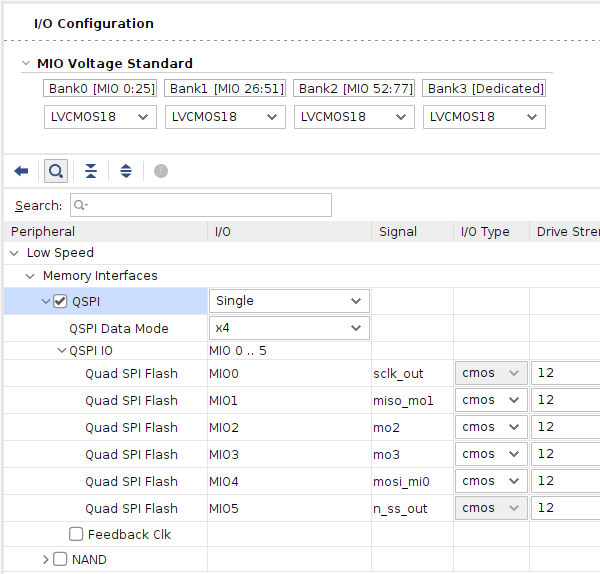
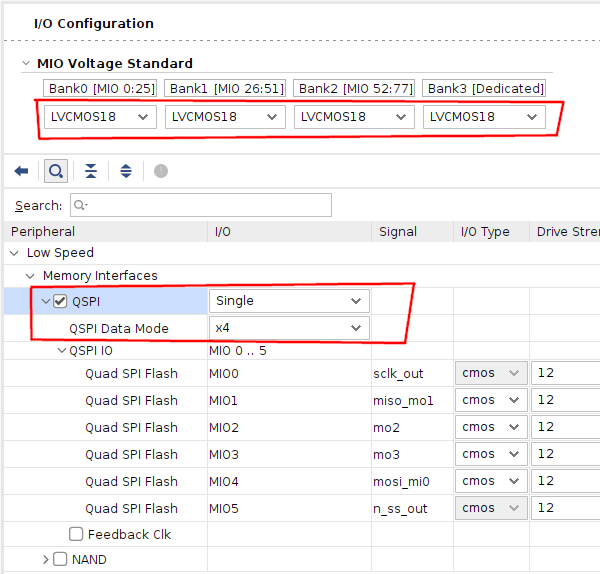
Updated U25 Notes

Changed region(s): [[0.06, 0.1481, 0.96, 0.2666], [0.03, 0.4739, 0.69, 0.622]]

diff --git a/Alveo_U25/debug_log.md b/Alveo_U25/debug_log.md
@@ -4,6 +4,10 @@
 
 See also the [Vitis Debug Log](debug_log_vitis.md).
 
+For testing, I have the U25 in a [PCIe x16 to x1 Riser Extender](https://www.google.com/search?q=PCIe+x16+to+x1+Riser+Extender) and use some [PCIe 8-Pin Power Extension Cables](https://www.google.com/search?q=pcie+8+pin+extension+cable) to work at a distance from the host computer. I am using a [WaveShare Platform Cable USB Clone](https://www.waveshare.com/platform-cable-usb.htm) for JTAG and a [74AVC4T774PW](https://www.trustedparts.com/en/search/74AVC4T774PW) Voltage Translator on a [TSSOP-16](https://www.ti.com/lit/pdf/mpds361a)-to-DIP adapter ([1](https://www.trustedparts.com/en/search/PA0193), [2](https://www.trustedparts.com/en/search/LCQT-TSSOP16)) to translate the U25's 1.8V UART to 3.3V for the [MCP2221A](https://www.trustedparts.com/en/part/adafruit/4471), which also handles the U25's 3.3V I2C communication.
+
+![U25 Test Setup](img/U25_Test_Setup.jpg)
+
 
 
 
@@ -133,27 +137,17 @@ B13 seems to connect to the `MGTAVCC` voltage rail which is used by the FPGA PL 
 
 
 
-## Attempt to Trace B9 Debug Connector Signal
-
-
-B9 measures 3.3V and has 1k-ohm series resistance to the 3.3V rail. It has 100-ohm series resistance to VccB of the [SN74AUP1T34](https://www.ti.com/lit/ds/symlink/sn74aup1t34.pdf) labeled [`U2`](https://www.ti.com/packaging/en/docs/partlookup.tsp?partmarking=U2), which has a signal that goes to a [NC7NZ34](https://www.onsemi.com/download/data-sheet/pdf/nc7nz34-d.pdf) triple signal buffer IC.
-
-![](img/U25_Debug_B9_Tracing_Attempt.jpg)
-
-
-
-
-## Attempt to Trace A8 A9 Debug Connector Signals
+## Tracing A8 A9 Debug Connector UART Signals
 
 The pins measure 1.8V. The [U25N Notes](https://xilinx.github.io/U25N-SmartNIC-Solution/docs/build/html/docs/ug1534-shellprogramming.html) mention a UART and [astronomy8 on the ServeTheHome Forum found A8 and A9 are being used](https://forums.servethehome.com/index.php?threads/identifying-some-curious-xilinx-solarflare-cards.35111/post-369295).
 
 After [enabling JTAG](https://github.com/mwrnd/notes/tree/main/Alveo_U25#connect-jtag-adapter-and-allow-vivado-to-update-platform-cable-usb-ii-firmware) I was able to use UrJTAG to test pins A8 and A9. A8 connects to `PS_MIO22` (`AH32`) which is **RXD** and A9 connects to `PS_MIO23` (`AG35`) which is **TXD**.
 
-I used a [SN74AVC4T774](https://www.ti.com/product/SN74AVC4T774) Voltage Translator on a [TSSOP](https://www.ti.com/lit/pdf/mpds361a)-to-DIP adapter ([1](https://www.trustedparts.com/en/search/PA0193), [2](https://www.trustedparts.com/en/search/LCQT-TSSOP16)).
+I used a [74AVC4T774PW](https://www.ti.com/product/SN74AVC4T774) Voltage Translator on a [TSSOP-16](https://www.ti.com/lit/pdf/mpds361a)-to-DIP adapter ([1](https://www.trustedparts.com/en/search/PA0193), [2](https://www.trustedparts.com/en/search/LCQT-TSSOP16)).
 
 ![U25 UART Voltage Translator](img/U25_UART-Level-Shifter_I2C_MCP2221.jpg)
 
-[SN74AVC4T774](https://www.ti.com/lit/ds/symlink/sn74avc4t774.pdf) connections:
+[74AVC4T774PW](https://www.ti.com/lit/ds/symlink/sn74avc4t774.pdf) connections:
 
 ![U25 UART Voltage Translator](img/U25_UART_MCP2221_Voltage_Translator.png)
 
@@ -328,6 +322,10 @@ In Vivado, the following constraints can be used when setting up PCIe:
 
 ![U25 PCIe x1 Constraints](img/U25_PCIe_x1_Pin_Constraints.png)
 
+The closest `PCIE4` block to Banks 224 and 225 is X1Y0.
+
+![Quads 224 225 Closest to X1Y0 PCIE4](img/U25_Quads_224_225_Closest_to_X1Y0_PCIE4.png)
+
 
 
 
@@ -475,7 +473,7 @@ I chose `mt25qu01g-qspi-x4-single` as the memory device.
 
 ![Select mt25qu01g-qspi-x4-single](img/Select_mt25qu01g-qspi-x4-single.png)
 
-I then programmed the Configuration Memory Device using an FSBL (First-Stage Boot Loader) from a recent project and `partition.bin` generated by an install of the [U25 FPGA Utility](https://support.lenovo.com/us/en/downloads/ds547996-xilinx-u25-fpga-utility-for-unknown-os)([2.8.372](https://download.lenovo.com/servers/mig/2020/12/23/43128/xlnx-lnvgy_utl_nic_u25-2.8.372_linux_x86-64.tgz)).
+I then programmed the Configuration Memory Device using an FSBL (First-Stage Boot Loader) from a recent project and `partition.bin` generated by an install of the [U25 FPGA Utility](https://support.lenovo.com/us/en/downloads/ds547996-xilinx-u25-fpga-utility-for-unknown-os)([2.8.372](https://download.lenovo.com/servers/mig/2020/12/23/43128/xlnx-lnvgy_utl_nic_u25-2.8.372_linux_x86-64.tgz)). Note that the U25 is a [Two Stage Platform](https://xilinx.github.io/XRT/master/html/platforms_partitions.html#two-stage-platforms) and requires `BOOT.bin` from the [Official U25 Member Page](https://www.xilinx.com/member/u25.html).
 
 ![Program Configuration Memory Device](img/Program_Configuration_Memory_Device.png)
 
@@ -523,6 +521,21 @@ The Zynq JTAG pins have two buffer ICs connected to them. There are two possible
 [U25 X2 NIC Firmware](https://support.lenovo.com/us/en/downloads/ds548057-xilinx-u25-x2-nic-firmware-for-unknown-os) ([8.1.3.1011-1](https://download.lenovo.com/servers/mig/2021/01/06/43174/xlnx-lnvgy_fw_nic_u25-8.1.3.1011-1_linux_x86-64.tgz))
 
 [U25 FPGA Utility](https://support.lenovo.com/us/en/downloads/ds547996-xilinx-u25-fpga-utility-for-unknown-os) ([2.8.372](https://download.lenovo.com/servers/mig/2020/12/23/43128/xlnx-lnvgy_utl_nic_u25-2.8.372_linux_x86-64.tgz))
+
+
+
+
+## Setting Boot Mode
+
+[Set JTAG Boot](https://xilinx.github.io/kria-apps-docs/creating_applications/2022.1/build/html/docs/bootmodes.html#setting-bootmodes) regardless of the `PS_MODE` pins. [ug1087 describes `BOOT_MODE_USER`](https://docs.xilinx.com/r/en-US/ug1087-zynq-ultrascale-registers/BOOT_MODE_USER-CRL_APB-Register) which is defined in [`/tools/Xilinx/Vivado/2021.2/data/embeddedsw/lib/sw_apps/zynqmp_pmufw/src/crl_apb.h`](https://github.com/Xilinx/embeddedsw/blob/836d748f91eda280bac23d0200df8a3bef61c0c3/lib/sw_apps/zynqmp_pmufw/src/crl_apb.h#L1988).
+
+```
+targets -set -nocase -filter {name =~ "*PSU*"}
+stop
+mwr 0xFFCA0010 0x0
+mwr 0xFF5E0200 0x0100
+rst -system
+```
 
 
 

diff --git a/Alveo_U25/README.md b/Alveo_U25/README.md
@@ -66,7 +66,7 @@ exit
 
 #### Connect JTAG Adapter and Allow Vivado to Update Platform Cable USB II Firmware
 
-Connect your JTAG Adapter to the Alveo U25.
+Connect your JTAG Adapter to the Alveo U25. The Alveo needs to be powered over its PCIe connection.
 
 ![JTAG Connected](img/AlveoU25_JTAG_Connected.jpg)
 
@@ -221,7 +221,7 @@ readback_hw_device [current_hw_device]  -readback_file zu19eg_u25_r.rbd  -bin_fi
 
 [Zynq Ultrascale+ MPSoC Datasheet](https://www.xilinx.com/content/dam/xilinx/support/documents/data_sheets/ds925-zynq-ultrascale-plus.pdf)
 
-[Zynq UltraScale+ Devices Register Reference](https://www.xilinx.com/htmldocs/registers/ug1087/ug1087-zynq-ultrascale-registers.html)
+[Zynq UltraScale+ Devices Register Reference](https://docs.xilinx.com/r/en-US/ug1087-zynq-ultrascale-registers/Overview)([HTML](https://www.xilinx.com/htmldocs/registers/ug1087/ug1087-zynq-ultrascale-registers.html)) is [Downloadable](https://www.xilinx.com/html_docs/registers/ug1087/ug1087-zynq-ultrascale-registers.zip)
 
 [ServeTheHome Forum](https://forums.servethehome.com/index.php?threads/identifying-some-curious-xilinx-solarflare-cards.35111) post about the Alveo U25
 
@@ -238,6 +238,10 @@ readback_hw_device [current_hw_device]  -readback_file zu19eg_u25_r.rbd  -bin_fi
 [Alveo Platform Partitions](https://xilinx.github.io/XRT/master/html/platforms_partitions.html)
 
 [Alveo U25 Member Page](https://www.xilinx.com/member/u25.html)
+
+[U25 Xilinx Lenovo Page](https://www.xilinx.com/products/boards-and-kits/alveo/oem-partner/lenovo-servers.html) has a [Production Package](https://www.xilinx.com/content/dam/xilinx/publications/products/board-kits/u25_production_package_nov20.zip) and a [Utilities Package](https://www.xilinx.com/content/dam/xilinx/support/download/lenovo/xn-200528-ls-3-x2522-25g-u25-lenovo-linux-utilities-rpm-64-bit.zip)
+
+[U25 Cloud Instance](https://vmaccel.com/xilinxtrial/)
 
 [Alveo U25 Product Brief](https://www.xilinx.com/content/dam/xilinx/publications/product-briefs/alveo-u25-product-brief.pdf)
 

diff --git a/Alveo_U25/debug_log_vitis.md b/Alveo_U25/debug_log_vitis.md
@@ -23,7 +23,7 @@ DDR4:
 
 ![Zynq PS DDR4](img/Zynq_PS_Setup-DDR4.png)
 
-Enable QSPI:
+Enable QSPI and set the MIO Banks to 1.8V:
 
 ![Zynq PS QSPI](img/Zynq_PS_Setup-QSPI.png)
 
@@ -124,7 +124,7 @@ Allow Boot Mode overwrite.
 
 ![Allow Boot Mode Overwrite](img/U25_Vitis_Step_11-Allow_Overwrite_Boot_Mode.png)
 
-For me, the Zynq gets stuck after running the First Stage Boot Loader (FSBL).
+The Zynq runs the First Stage Boot Loader (FSBL) and then proceeds to print `Hello World` indefinitely.
 
 ![Hello World Runs Successfully](img/U25_HelloWorld_Test.png)
 
@@ -276,7 +276,7 @@ Info: Cortex-A53 #0 (target 11) Running
 
 ## Zynq MPSoC DRAM Tests Demo in Vitis
 
-Follow the [same procedure as above](#zynq-mpsoc-software-demo-in-vitis) but select Zynq MP DRAM Tests as the template applicatio.
+Follow the [same procedure as above](#zynq-mpsoc-software-demo-in-vitis) but select Zynq MP DRAM Tests as the template application.
 
 ![New Application DRAM Tests](img/U25_Vitis_New_Application_Project_DRAM_Tests.png)
 
